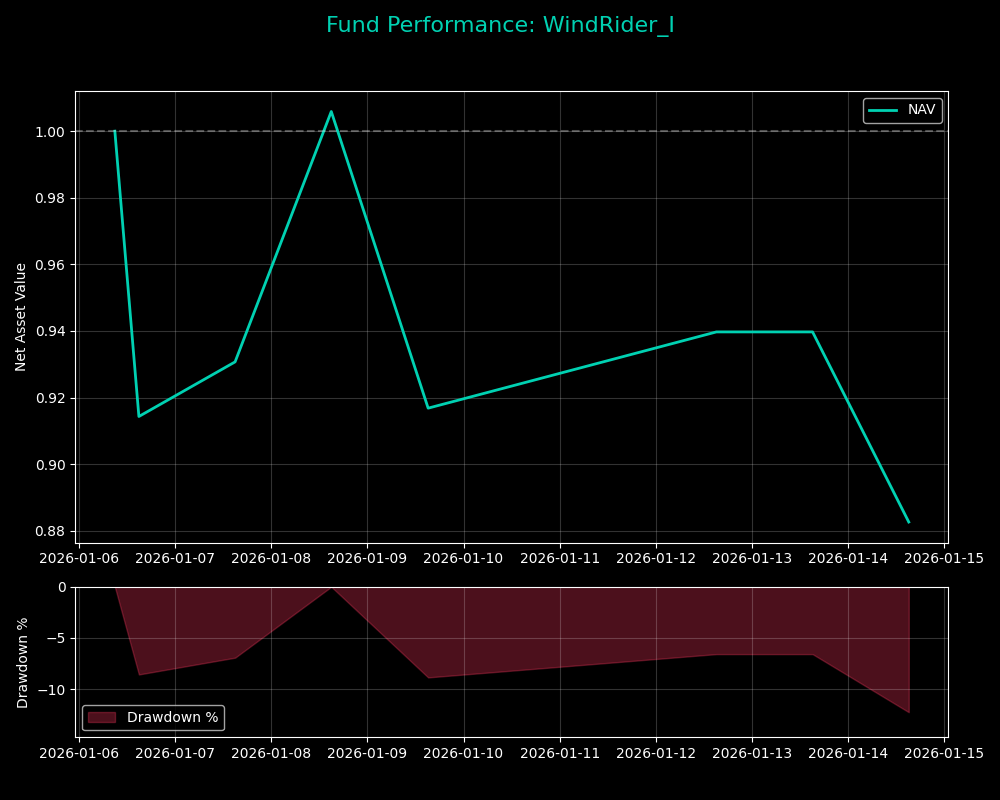
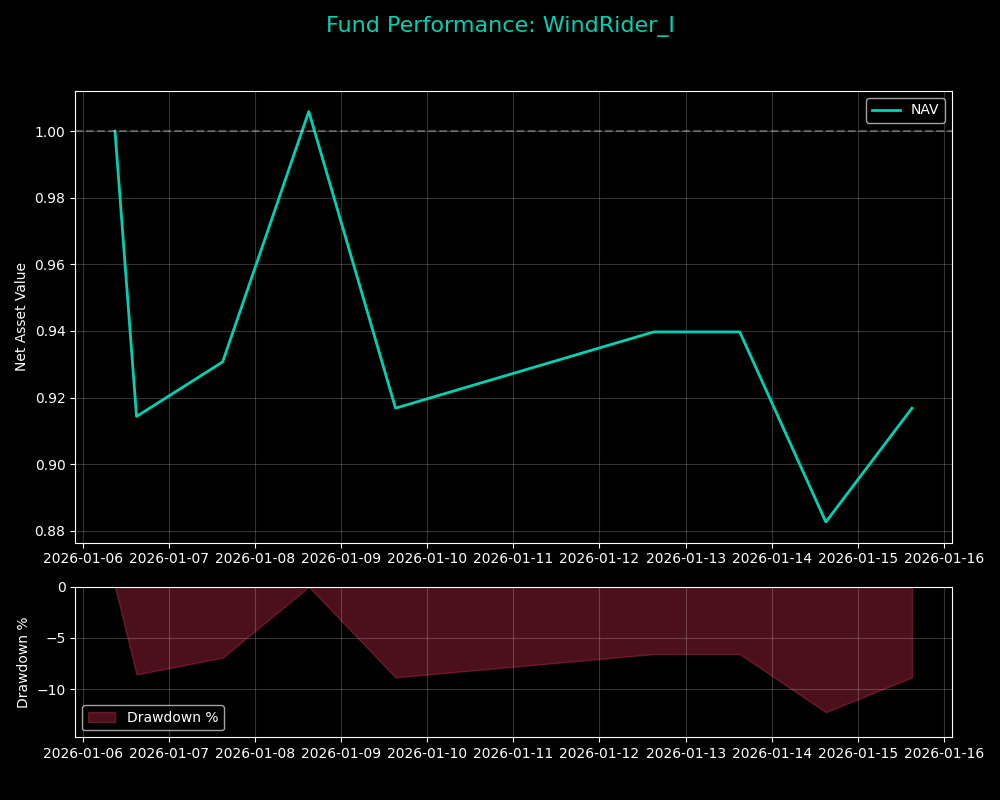
Updated Hugo site content

diff --git a/content/investment/windrider-1.md b/content/investment/windrider-1.md
@@ -1,8 +1,8 @@
 +++
 title = "风舵1号 (WindRider I)  /// 指数"
 summary = "商品期货分形摆动策略，实盘最新净值与核心风险指标。"
-date = 2026-01-15T15:15:04+08:00
-lastmod = 2026-01-15T15:15:04+08:00
+date = 2026-01-15T15:30:08+08:00
+lastmod = 2026-01-15T15:30:08+08:00
 draft = false
 description = "商品期货分形摆动策略实盘"
 +++
@@ -15,23 +15,23 @@ description = "商品期货分形摆动策略实盘"
 
 ### 风舵1号 (WindRider I) &nbsp;&nbsp;<span style="color: #E63946; font-weight: bold;">/</span><span style="color: #F1A73E; font-weight: bold;">/</span><span style="color: #000091; font-weight: bold;">/</span>&nbsp;&nbsp; 指数
 商品期货分形摆动策略实盘<br>
-净值简报 <small>(截至: 2026-01-14)</small>
+净值简报 <small>(截至: 2026-01-15)</small>
 
 |  |  |
 | :--- | :--- |
 | **指数代码：** | WDR1.CTA |
 | **起步日期：** | 2026-01-06 |
-| **最新净值：** | 0.8826 |
-| **今日涨跌：** | -6.08% |
+| **最新净值：** | 0.9168 |
+| **今日涨跌：** | +3.87% |
 
 ===========================
 
 | 核心指标 | |
 | :--- | :--- |
-| **累计涨跌：** | -11.74% |
-| **年化收益：** | -99.66% |
+| **累计涨跌：** | -8.32% |
+| **年化收益：** | -97.05% |
 | **最大回撤：** | -12.26% |
-| **卡玛比率：** | -8.13 |
+| **卡玛比率：** | -7.92 |
 | **策略状态：** | 运行中 |
 
 ### 净值曲线图
